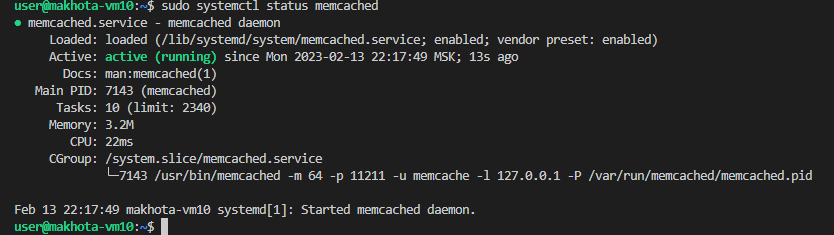
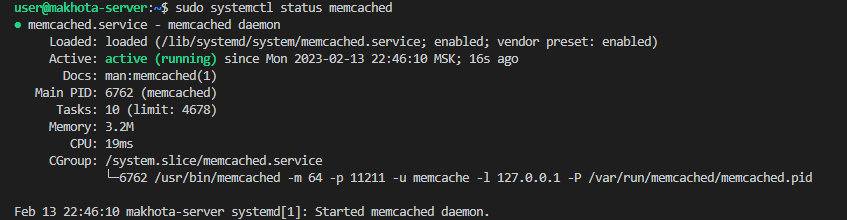
update readme - added answer to task 3

Changed region(s): [[0.0, 0.0, 0.9976, 0.8455], [0.0, 0.8727, 0.5923, 1.0]]

diff --git a/README.md b/README.md
@@ -86,6 +86,161 @@ sudo systemctl status memcached
 
 ### *<a name="3"> Ответ к Заданию 3</a>*
 
+Установка telnet
+
+```bash
+sudo apt install telnet
+```
+
+Команда для подключения к memcached серверу
+
+```bash
+# structure
+# telnet hostname/ip port
+
+telnet localhost 11211
+```
+
+Команда для записи данных в memcached
+
+```bash
+# structure
+set key_name meta_data expiry_time length_in_bytes
+
+# example
+
+user@makhota-server:~$ telnet localhost 11211
+Trying 127.0.0.1...
+Connected to localhost.
+Escape character is '^]'.
+set Test 0 10 5   # expiry_time 10    
+Hello
+STORED
+get Test 
+END
+set Test 0 15 5    # expiry_time 15
+Hello
+STORED
+get Test
+VALUE Test 0 5
+Hello
+END
+get Test
+VALUE Test 0 5
+Hello
+END
+get Test
+END
+set Test 0 5 5  # expiry_time 5 
+Hello
+STORED
+get Test
+END
+stats
+STAT pid 6762
+STAT uptime 203
+STAT time 1676317771
+STAT version 1.6.9
+STAT libevent 2.1.12-stable
+STAT pointer_size 64
+STAT rusage_user 0.037673
+STAT rusage_system 0.018831
+STAT max_connections 1024
+STAT curr_connections 1
+STAT total_connections 2
+STAT rejected_connections 0
+STAT connection_structures 2
+STAT response_obj_oom 0
+STAT response_obj_count 1
+STAT response_obj_bytes 16384
+STAT read_buf_count 2
+STAT read_buf_bytes 32768
+STAT read_buf_bytes_free 0
+STAT read_buf_oom 0
+STAT reserved_fds 20
+STAT cmd_get 5
+STAT cmd_set 3
+STAT cmd_flush 0
+STAT cmd_touch 0
+STAT cmd_meta 0
+STAT get_hits 2
+STAT get_misses 3
+STAT get_expired 0
+STAT get_flushed 0
+STAT delete_misses 0
+STAT delete_hits 0
+STAT incr_misses 0
+STAT incr_hits 0
+STAT decr_misses 0
+STAT decr_hits 0
+STAT cas_misses 0
+STAT cas_hits 0
+STAT cas_badval 0
+STAT touch_hits 0
+STAT touch_misses 0
+STAT auth_cmds 0
+STAT auth_errors 0
+STAT bytes_read 128
+STAT bytes_written 95
+STAT limit_maxbytes 67108864
+STAT accepting_conns 1
+STAT listen_disabled_num 0
+STAT time_in_listen_disabled_us 0
+STAT threads 4
+STAT conn_yields 0
+STAT hash_power_level 16
+STAT hash_bytes 524288
+STAT hash_is_expanding 0
+STAT slab_reassign_rescues 0
+STAT slab_reassign_chunk_rescues 0
+STAT slab_reassign_evictions_nomem 0
+STAT slab_reassign_inline_reclaim 0
+STAT slab_reassign_busy_items 0
+STAT slab_reassign_busy_deletes 0
+STAT slab_reassign_running 0
+STAT slabs_moved 0
+STAT lru_crawler_running 0
+STAT lru_crawler_starts 3
+STAT lru_maintainer_juggles 341
+STAT malloc_fails 0
+STAT log_worker_dropped 0
+STAT log_worker_written 0
+STAT log_watcher_skipped 0
+STAT log_watcher_sent 0
+STAT unexpected_napi_ids 0
+STAT round_robin_fallback 0
+STAT bytes 0
+STAT curr_items 0
+STAT total_items 3
+STAT slab_global_page_pool 0
+STAT expired_unfetched 2
+STAT evicted_unfetched 0
+STAT evicted_active 0
+STAT evictions 0
+STAT reclaimed 3
+STAT crawler_reclaimed 0
+STAT crawler_items_checked 0
+STAT lrutail_reflocked 0
+STAT moves_to_cold 3
+STAT moves_to_warm 1
+STAT moves_within_lru 0
+STAT direct_reclaims 0
+STAT lru_bumps_dropped 0
+END
+gets key
+END
+version
+VERSION 1.6.9
+quit
+Connection closed by foreign host.
+user@makhota-server:~$ 
+
+```
+
+Cкриншот, на котором видно, что спустя 5 секунд ключи удалились из базы
+
+![telnet](img/img%202023-02-13%20230308.png)
+
 ---
 
 ### Задание 4. Запись данных в Redis
